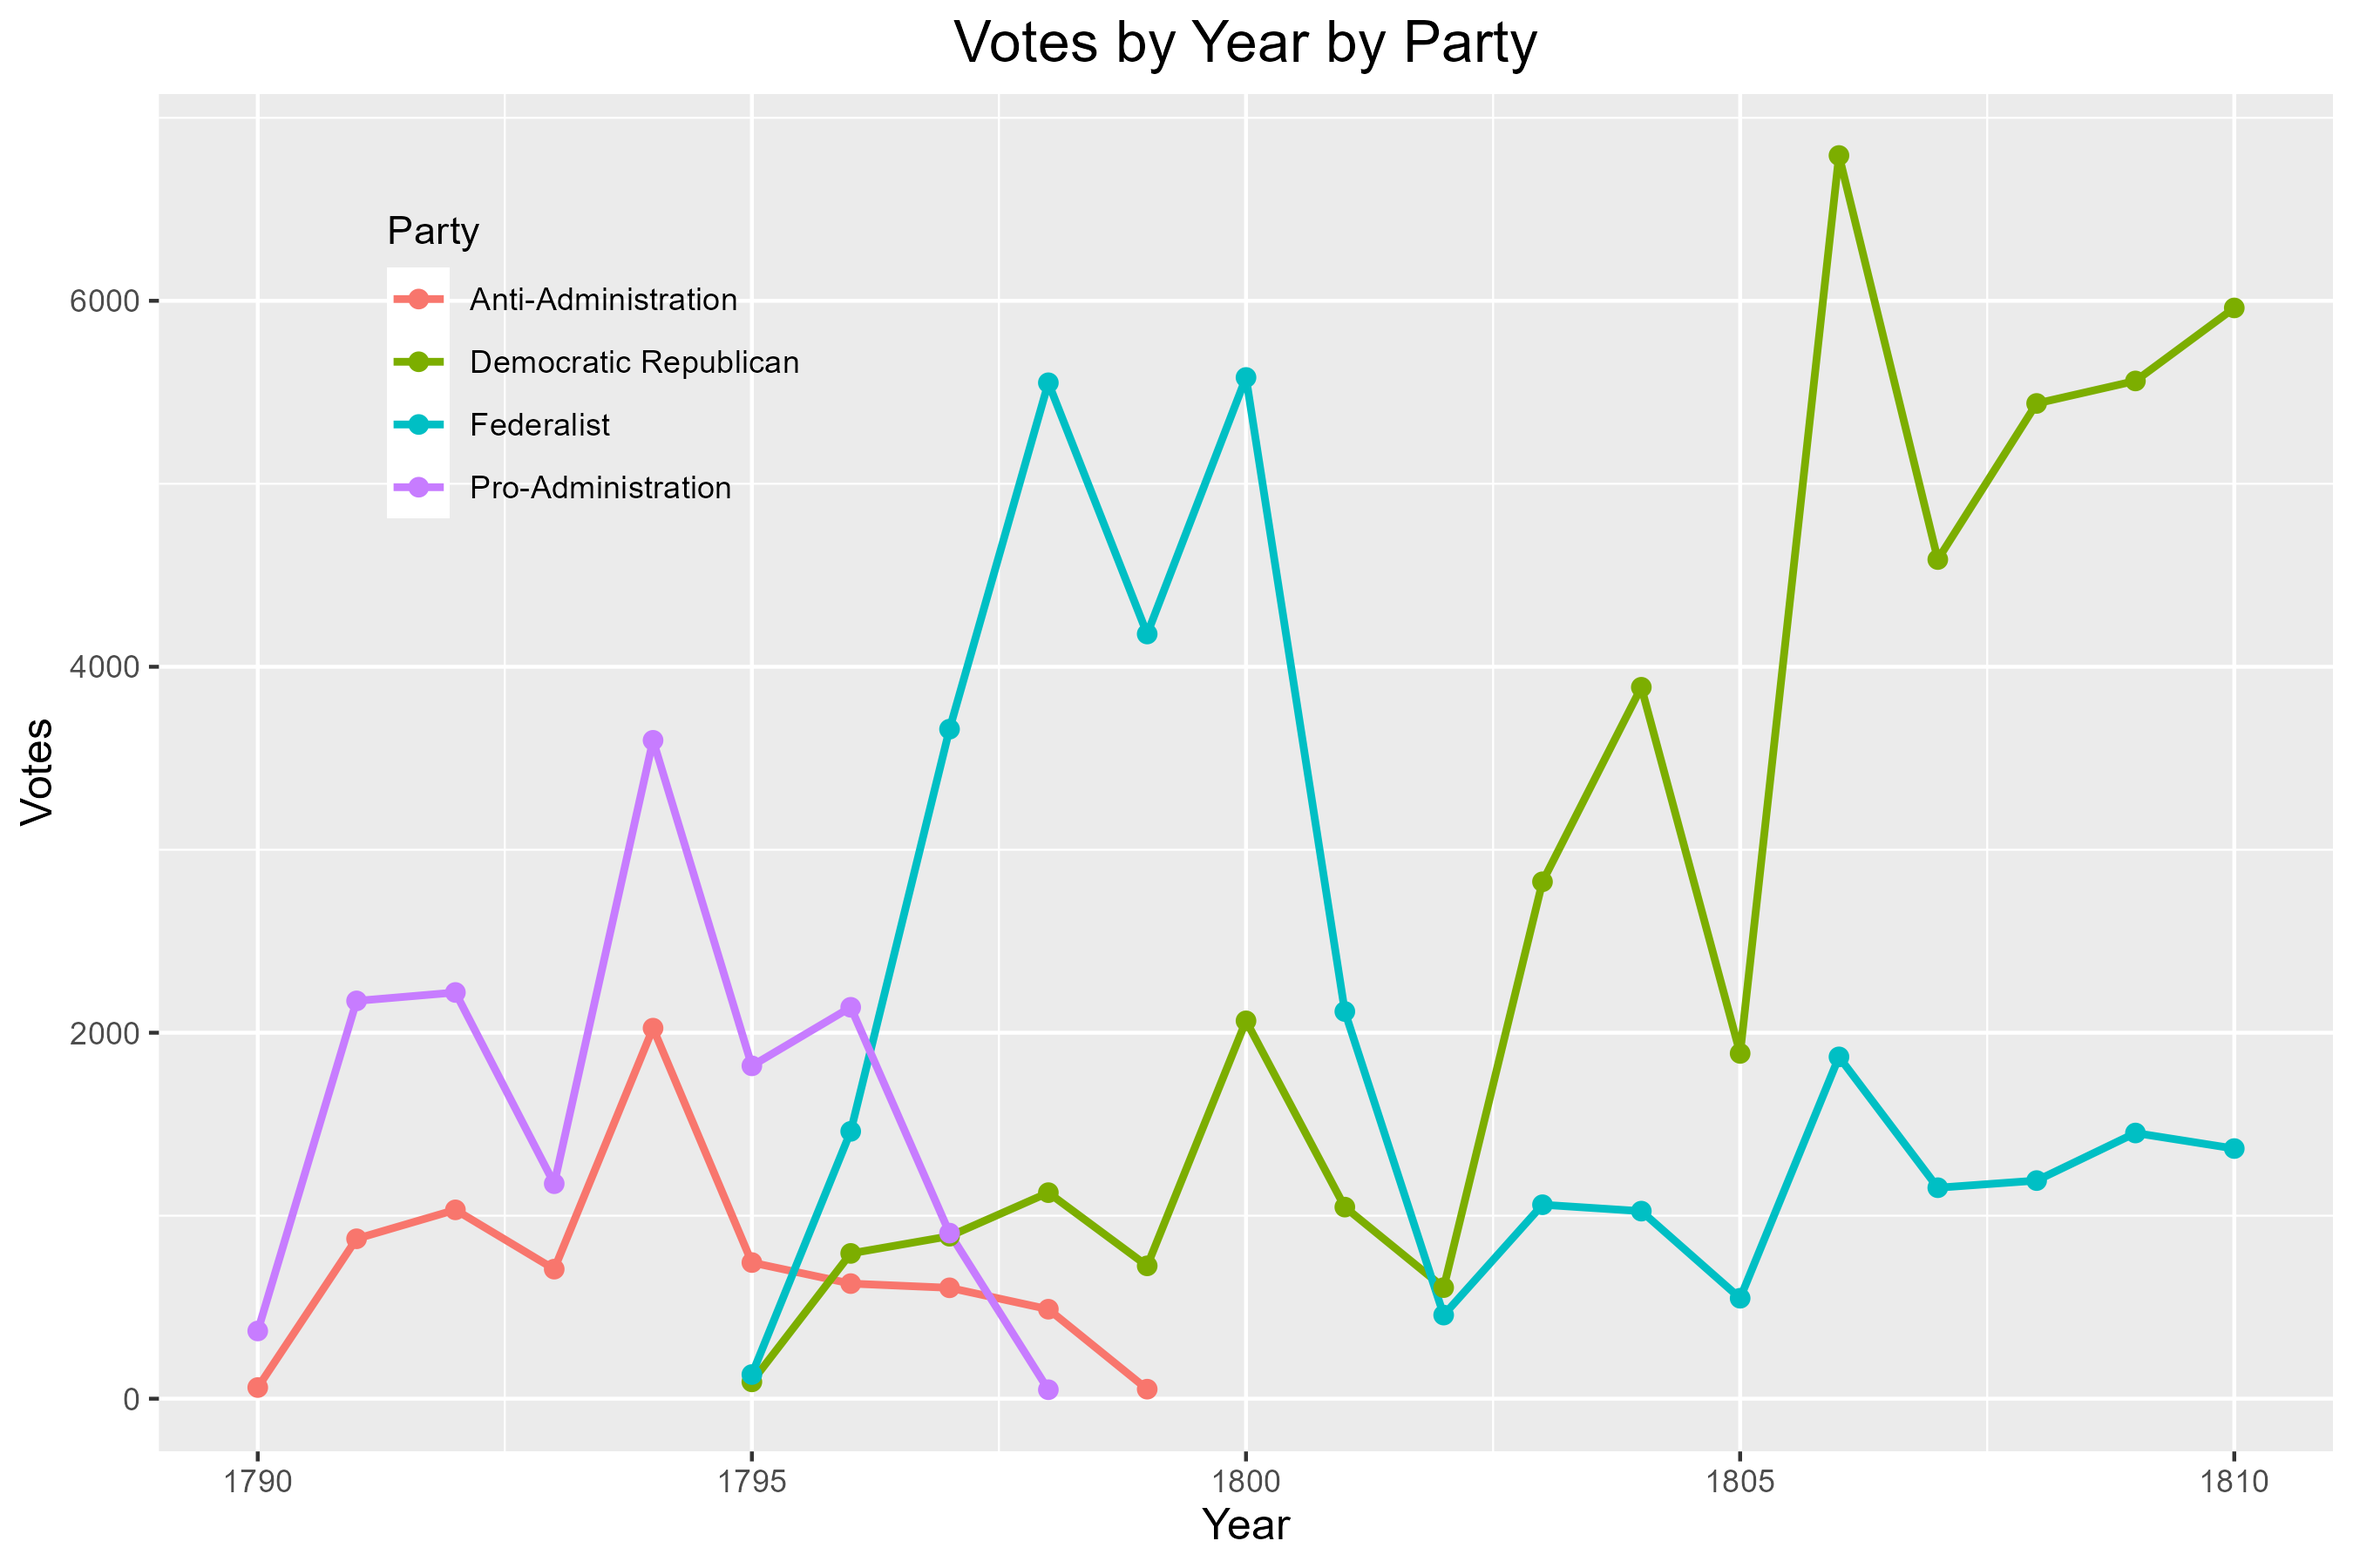
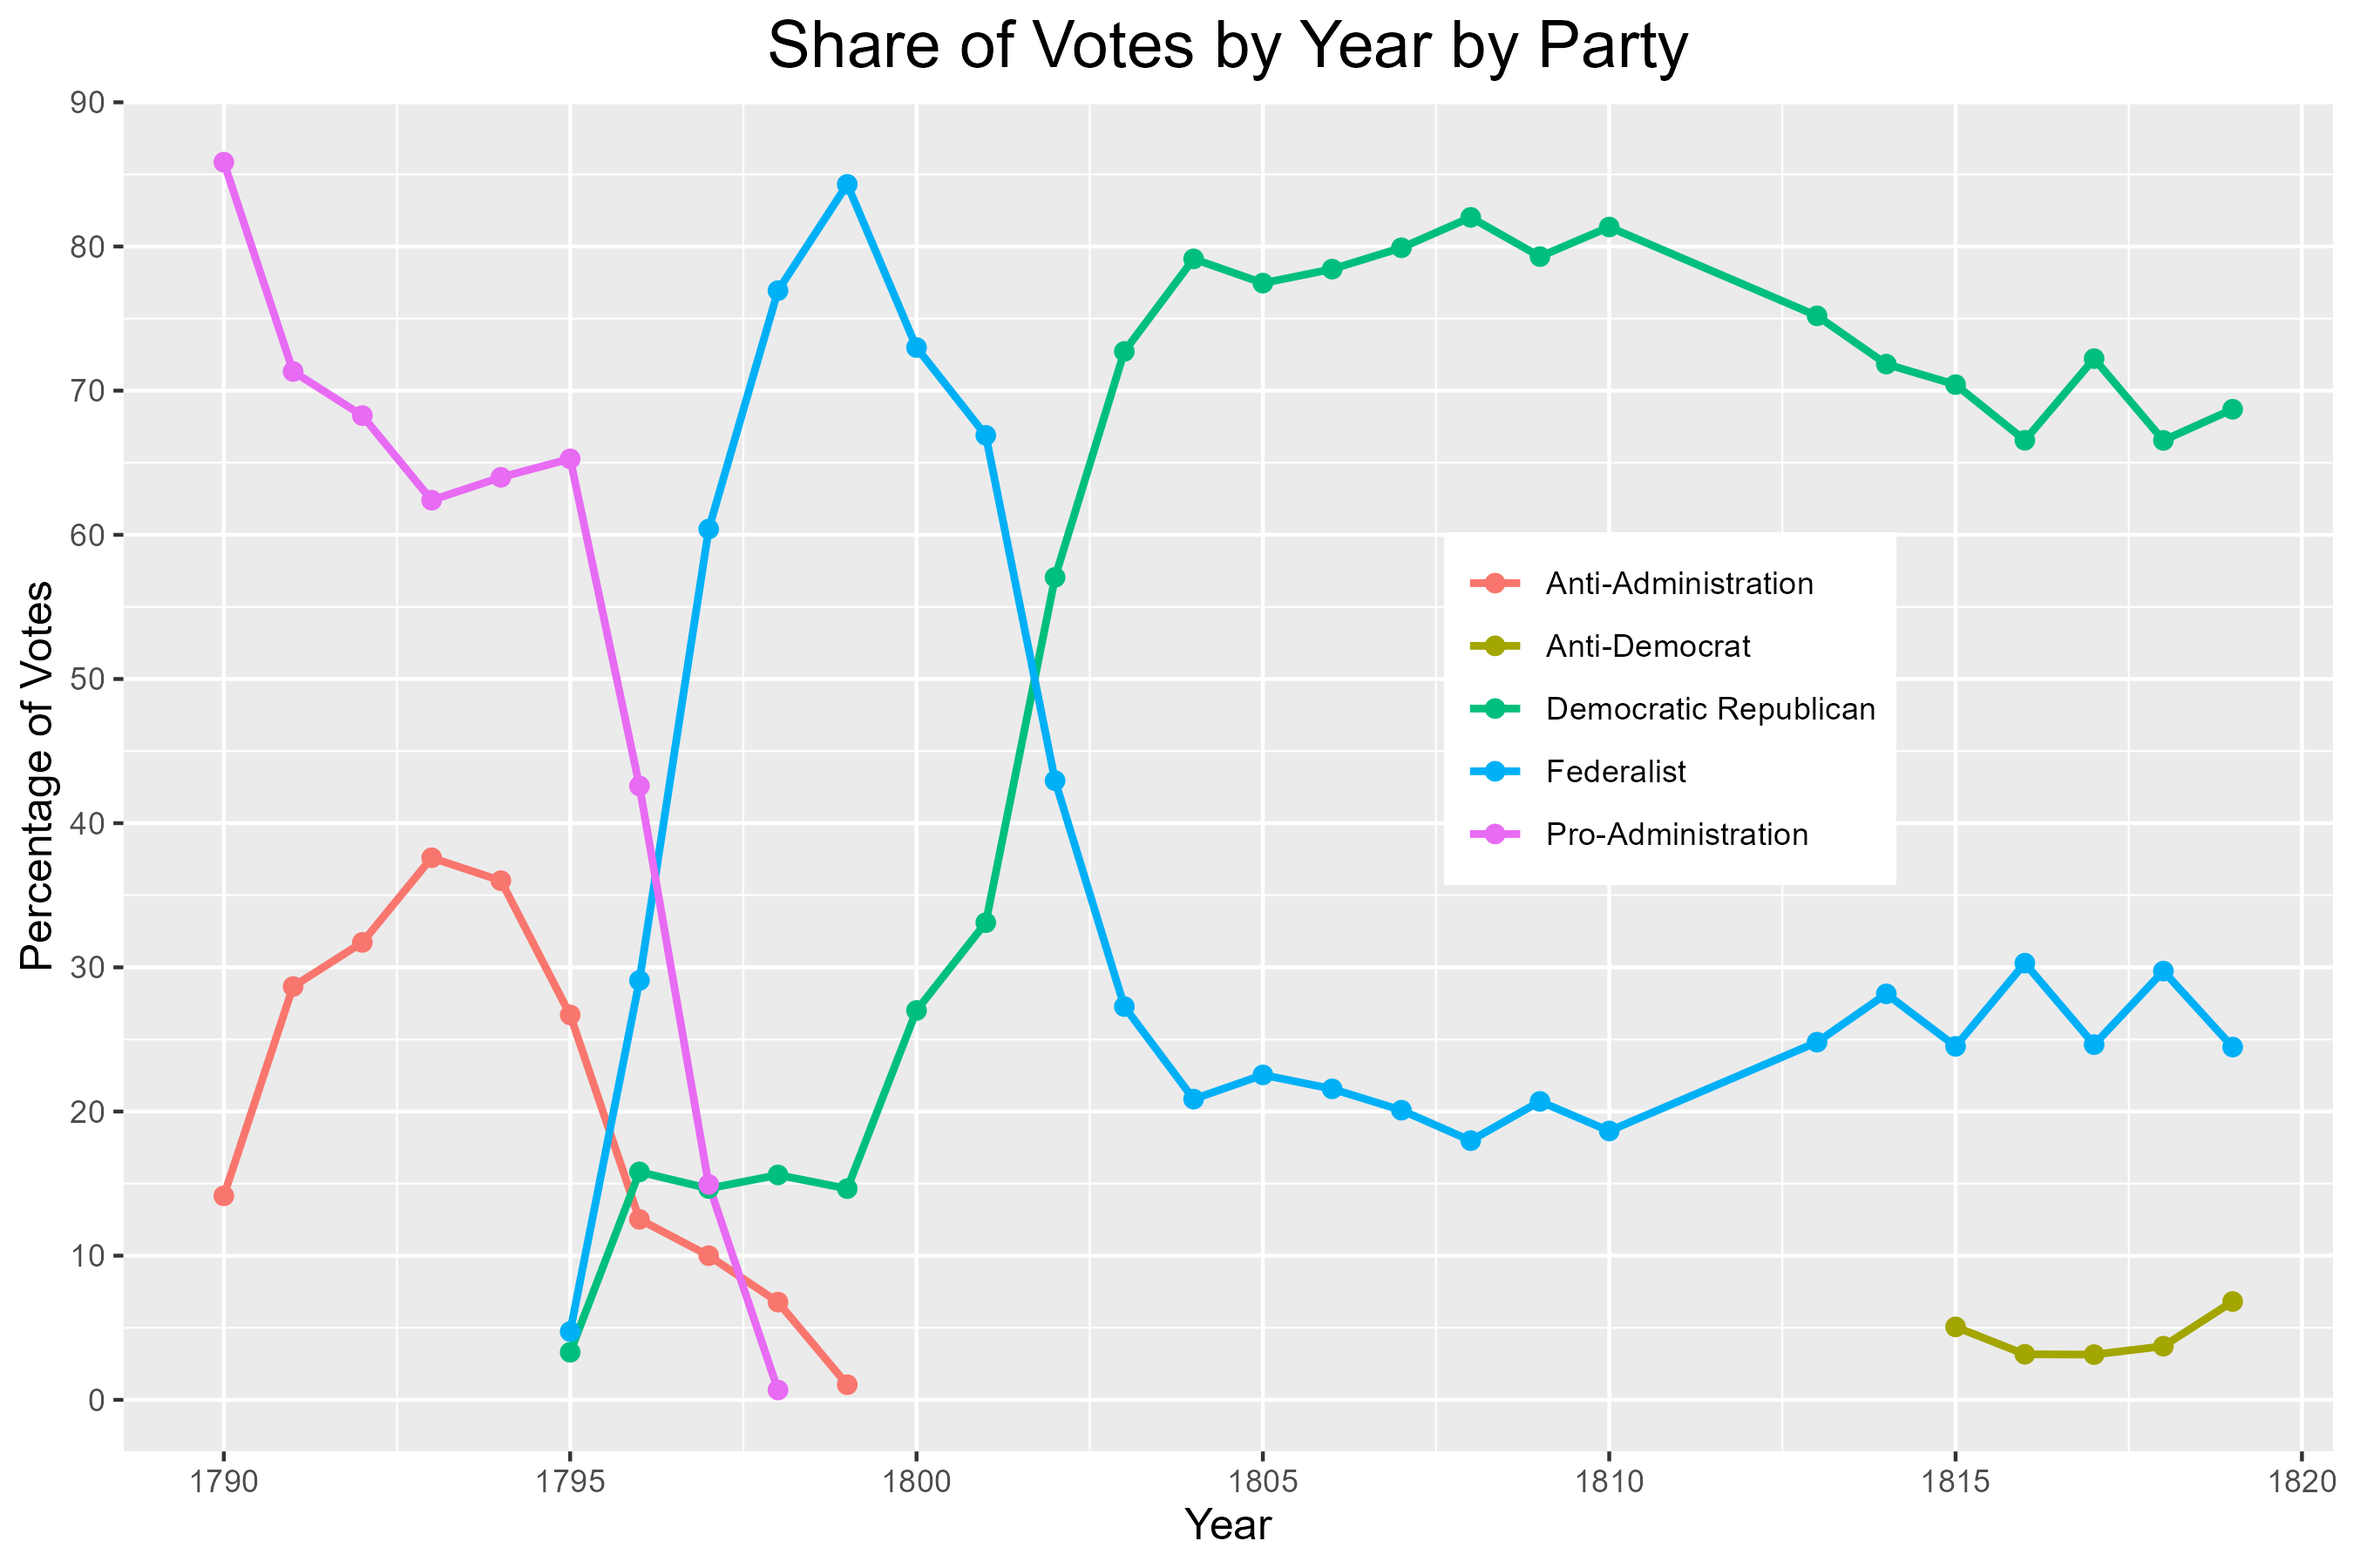
New party vote table and graph updated

diff --git a/input_data_db.py b/input_data_db.py
@@ -48,10 +48,21 @@ party_votes.to_csv('useful_tables/VotesByParty.csv', index = False)
 # votes per year per party
 all_t = votes[votes['date'] != 'n.d.']
 all_t['year'] = [i[0] for i in all_t['date'].str.split('-')] 
-print(all_t.head())
-party_year_votes = all_t.groupby(by = ['year','party'],as_index=False).sum('votes')
-print(party_year_votes.head())
-party_year_votes = party_year_votes[['year','party','votes']]
+party_year_votes = all_t.groupby(by = ['year','party'],as_index=False).agg({'votes':'sum', 'committee_id':'nunique'})
+party_year_votes['VotesPerCmte'] = (party_year_votes['votes']/party_year_votes['committee_id']).round(2)
+
+# get vote share
+totals = party_year_votes.groupby(by = 'year', as_index=False).sum('votes')
+shares = []
+for year in totals['year']:
+    total = totals.loc[totals['year'] == year]['votes'].values[0]
+    #print(total)
+    that_year = party_year_votes[party_year_votes['year'] == year]
+    #print(that_year)
+    shares += [round(party/total*100, 2) for party in that_year['votes']]
+party_year_votes['VoteShare (%)'] = shares
+
+party_year_votes.columns = ['year','party','NumVotes', 'NumCommittees', 'VotesPerCmte', 'VoteShare']
 party_year_votes.to_csv('useful_tables/VotesByPartyByYear.csv', index = False)
 
 conn.close()
